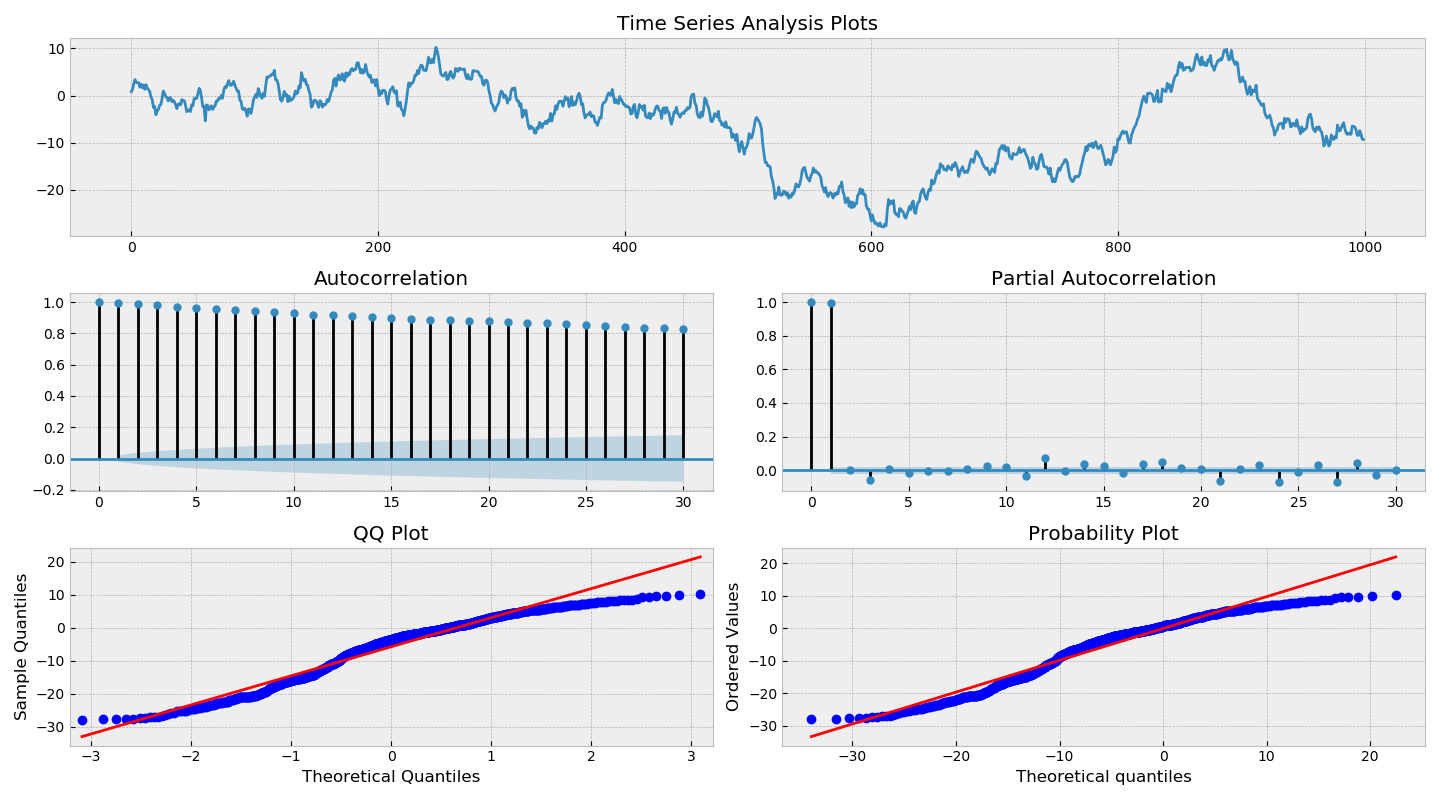
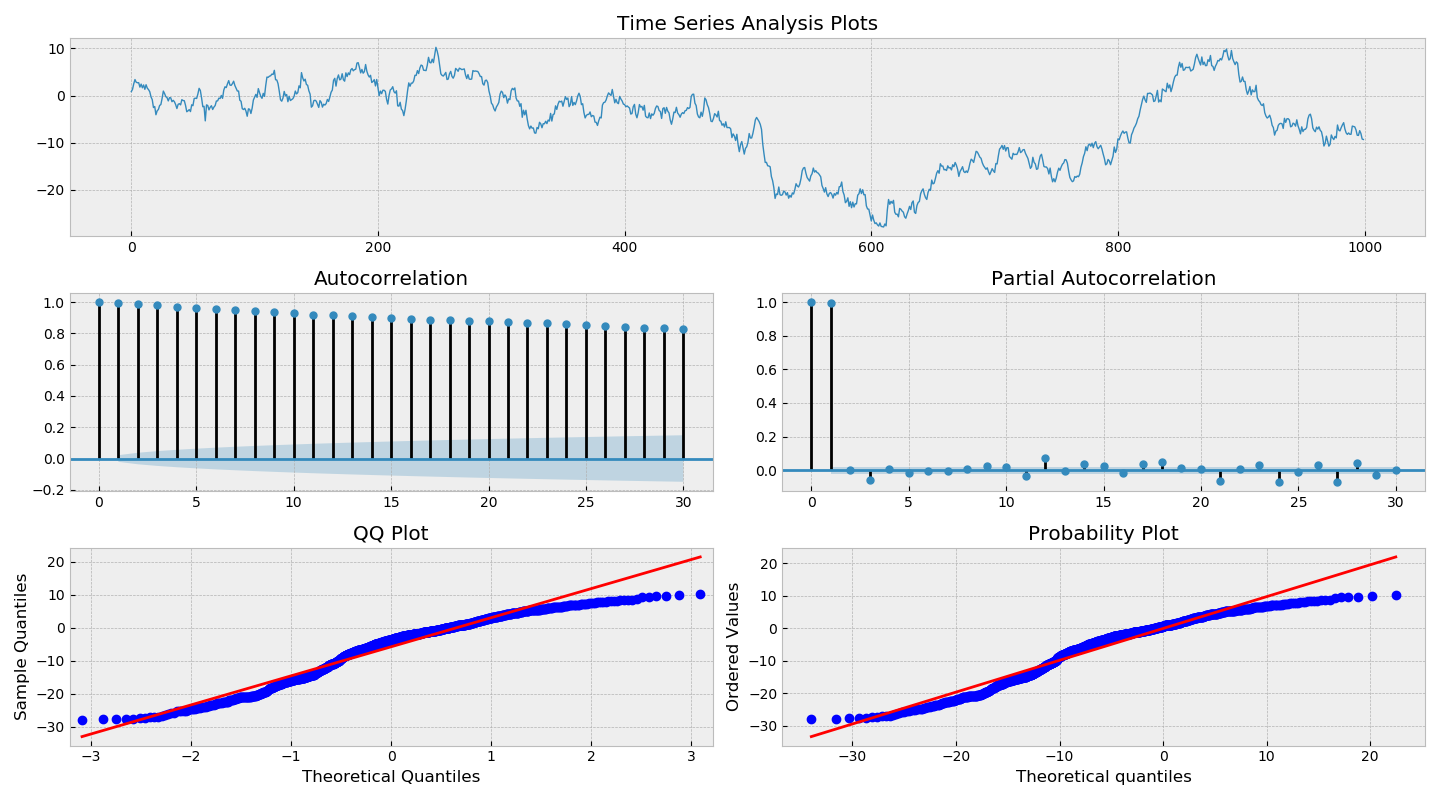
Time Series Analysis     Visualizing serial correlation in the actual financial time series data.

diff --git a/tsasys/SerialCorrelation.py b/tsasys/SerialCorrelation.py
@@ -37,6 +37,14 @@ class SerialCorrelation:
         self.__n_lags = 30
         pass
     
+    def __lean_and_mean_data_frame(self, data):
+        ldf = pd.DataFrame(
+                data=data, columns=['Adj Close'], index=data.index
+                )
+        # rename adjusted close column name as close
+        ldf.rename(columns={'Adj Close': 'Close'}, inplace=True)
+        return ldf
+    
     def get_fin_data_from_yahoo(self, scrip, sd, ed, save=False):
         Validator.validate_attribute(scrip, str, True)
         Validator.validate_attribute(sd, str, True)
@@ -45,11 +53,11 @@ class SerialCorrelation:
                 tickers=scrip, start=sd, end=ed
                 )
         data.to_csv('findata.csv', index=True, encoding='utf-8')
-        return data
+        return self.__lean_and_mean_data_frame(data)
     
     def get_fin_data_from_local(self):
         data = pd.read_csv('findata.csv', parse_dates=True, index_col=0)
-        return data
+        return self.__lean_and_mean_data_frame(data)
     
     def serial_correlation(self, data):
         # scatterplot grid config
@@ -111,7 +119,7 @@ class SerialCorrelation:
             pacf_ax = plt.subplot2grid(layout, (1, 1))
             qq_ax = plt.subplot2grid(layout, (2, 0))
             pp_ax = plt.subplot2grid(layout, (2, 1))
-            y.plot(ax=ts_ax)
+            y.plot(ax=ts_ax, lineWidth=1)
             ts_ax.set_title('Time Series Analysis Plots')
             smt.graphics.plot_acf(y, lags=lags, ax=acf_ax, alpha=0.5)
             smt.graphics.plot_pacf(y, lags=lags, ax=pacf_ax, alpha=0.5)
@@ -136,7 +144,21 @@ class SerialCorrelation:
         x = w = np.random.normal(size=self.__n_samples)
         for t in range(1, self.__n_samples):
             x[t] = x[t-1] + w[t]
-        self.tsplot(x, lags=30, saveas='random_walk.png')
+        self.tsplot(x, lags=self.__n_lags, saveas='random_walk.png')
+    
+    def analyse_ts(self, data):
+        self.tsplot(
+                data.Close,
+                lags=self.__n_lags,
+                saveas='ts.png'
+                )
+    
+    def analyse_ts_first_diffs(self, data):
+        self.tsplot(
+                np.diff(data.Close),
+                lags=self.__n_lags,
+                saveas='ts_first_diffs.png'
+                )
 
 # %%
 if __name__ == '__main__':
@@ -146,3 +168,5 @@ if __name__ == '__main__':
     sc.serial_correlation(data)
     sc.analyse_white_noise()
     sc.analyse_random_walk()
+    sc.analyse_ts(data)
+    sc.analyse_ts_first_diffs(data)
